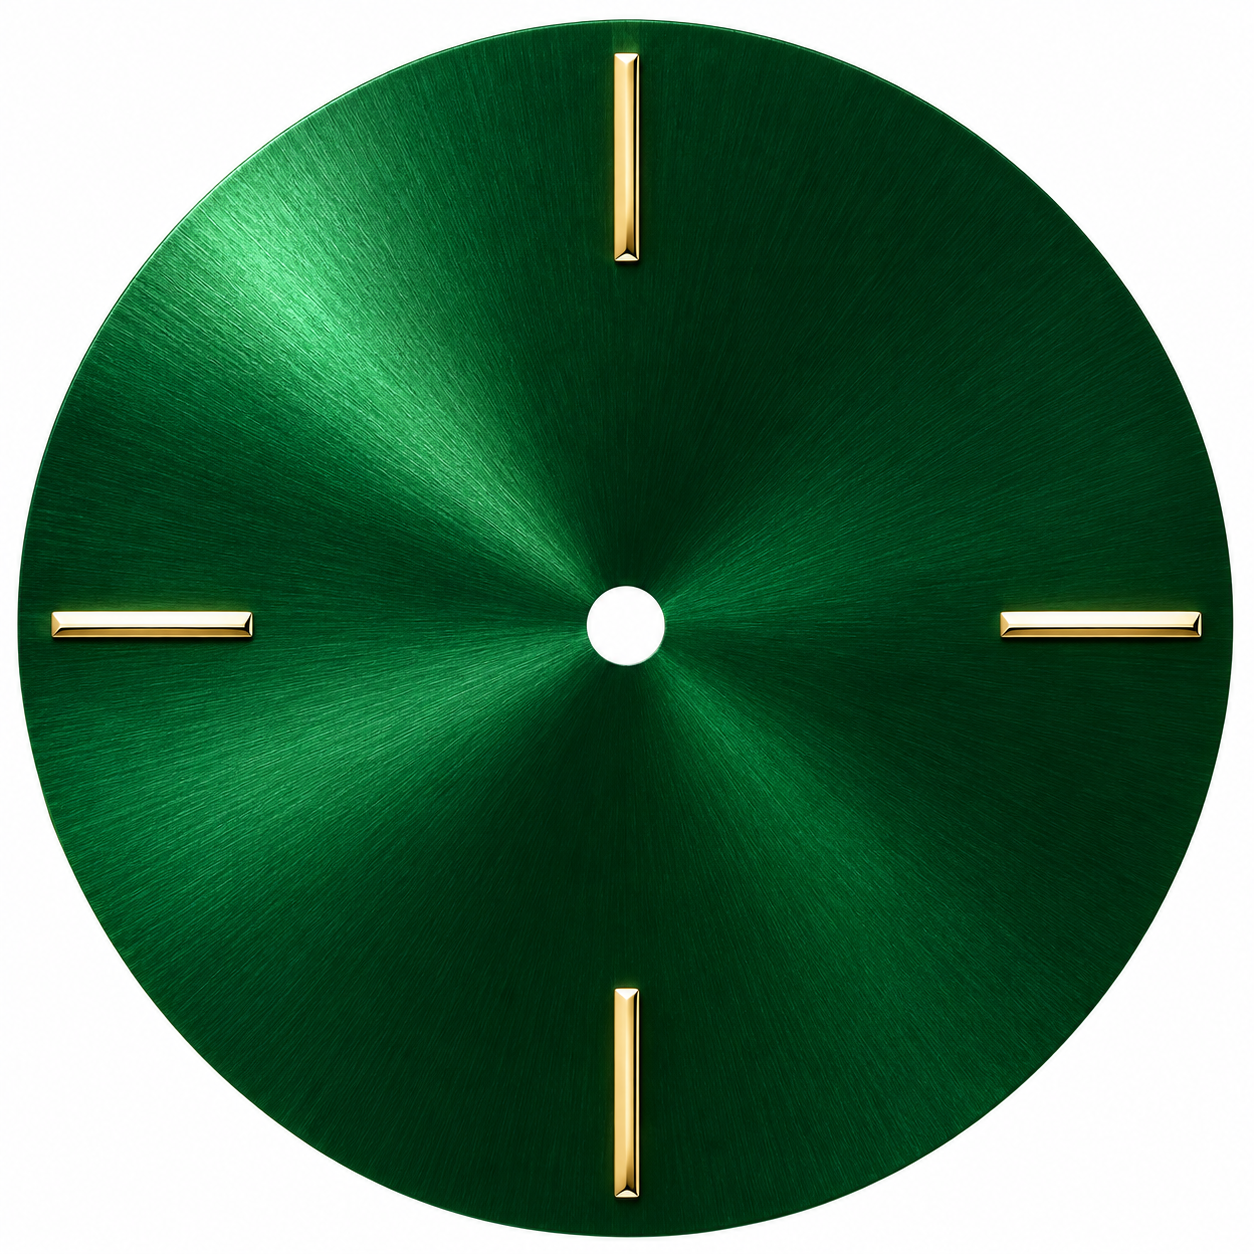
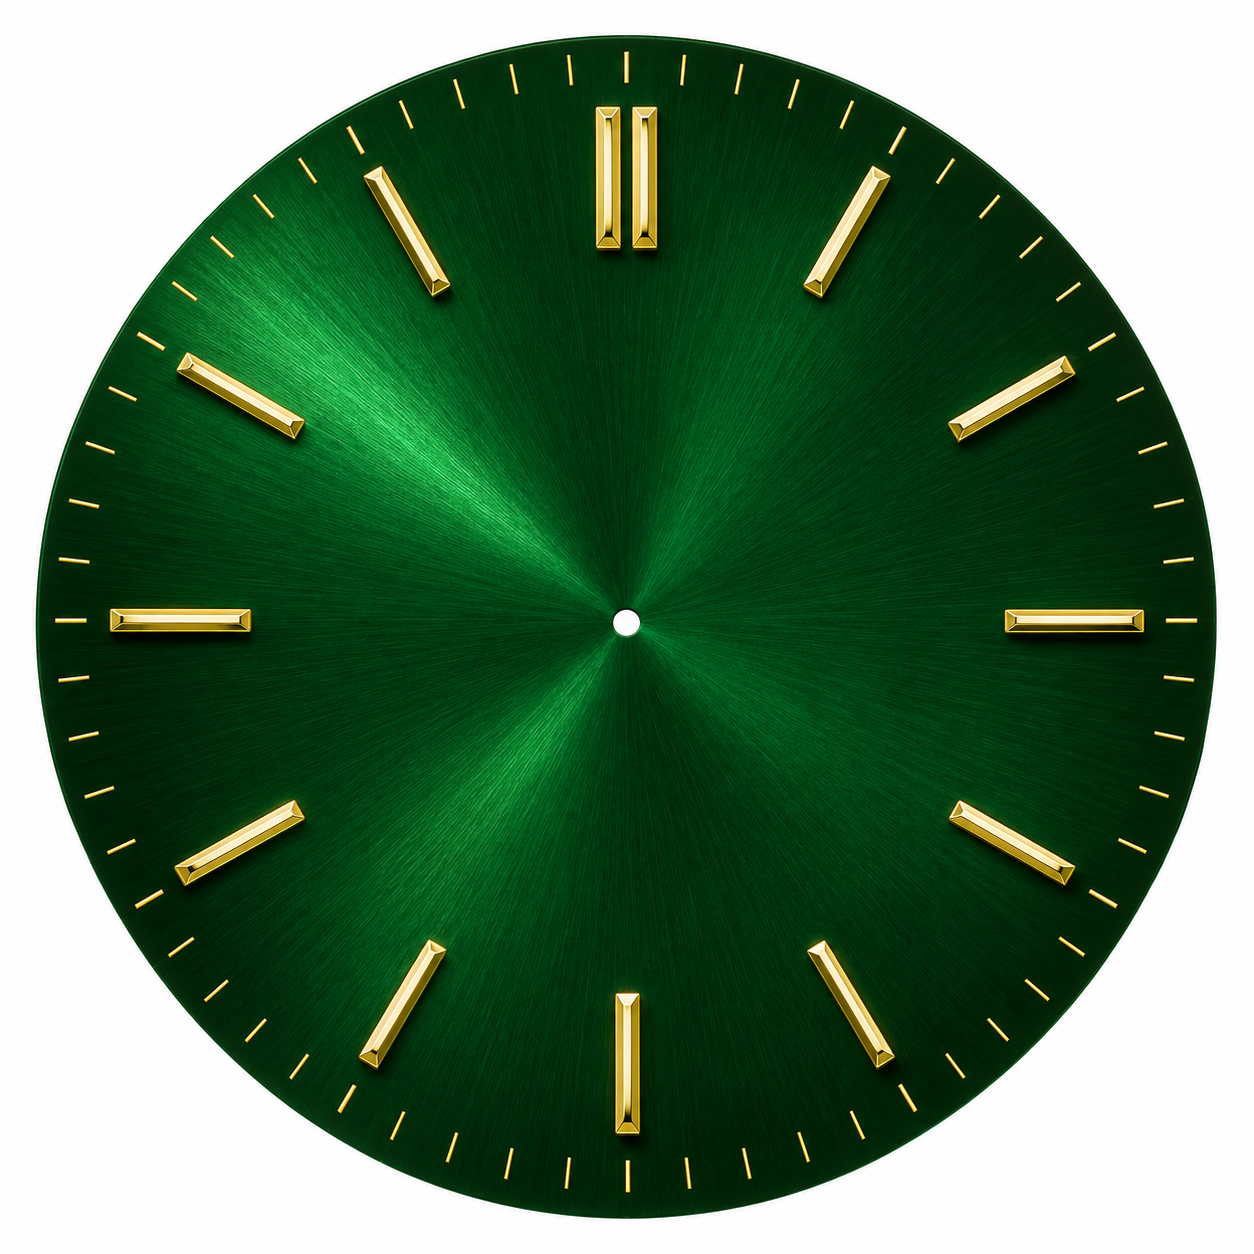
Lunetta: quadrante con dodici indici e scala dei minuti
Claude-Session: https://claude.ai/code/session_01NCWZ2EgAfWjoZpzfAus64N

diff --git a/src/components/ContactBezel.tsx b/src/components/ContactBezel.tsx
@@ -161,9 +161,9 @@ export default function ContactBezel() {
         >
           {/* quadrante soleil, fermo, sotto la ghiera */}
           {/* eslint-disable-next-line @next/next/no-img-element */}
-          <img src="/lunetta/quadrante.webp" alt="" draggable={false} className="absolute inset-[12.5%] h-[75%] w-[75%] rounded-full" />
+          <img src="/lunetta/quadrante.webp" alt="" draggable={false} className="absolute inset-[12.8%] h-[74.4%] w-[74.4%] rounded-full" />
           {/* lancette vere sopra il quadrante (immagini con il perno al centro, a mezzogiorno) */}
-          <span className="bezel-hands absolute inset-[12.5%]">
+          <span className="bezel-hands absolute inset-[12.8%]">
             {/* eslint-disable-next-line @next/next/no-img-element */}
             <img ref={hourHand} src="/lunetta/ore.webp" alt="" draggable={false} className="absolute inset-0 h-full w-full" />
             {/* eslint-disable-next-line @next/next/no-img-element */}
